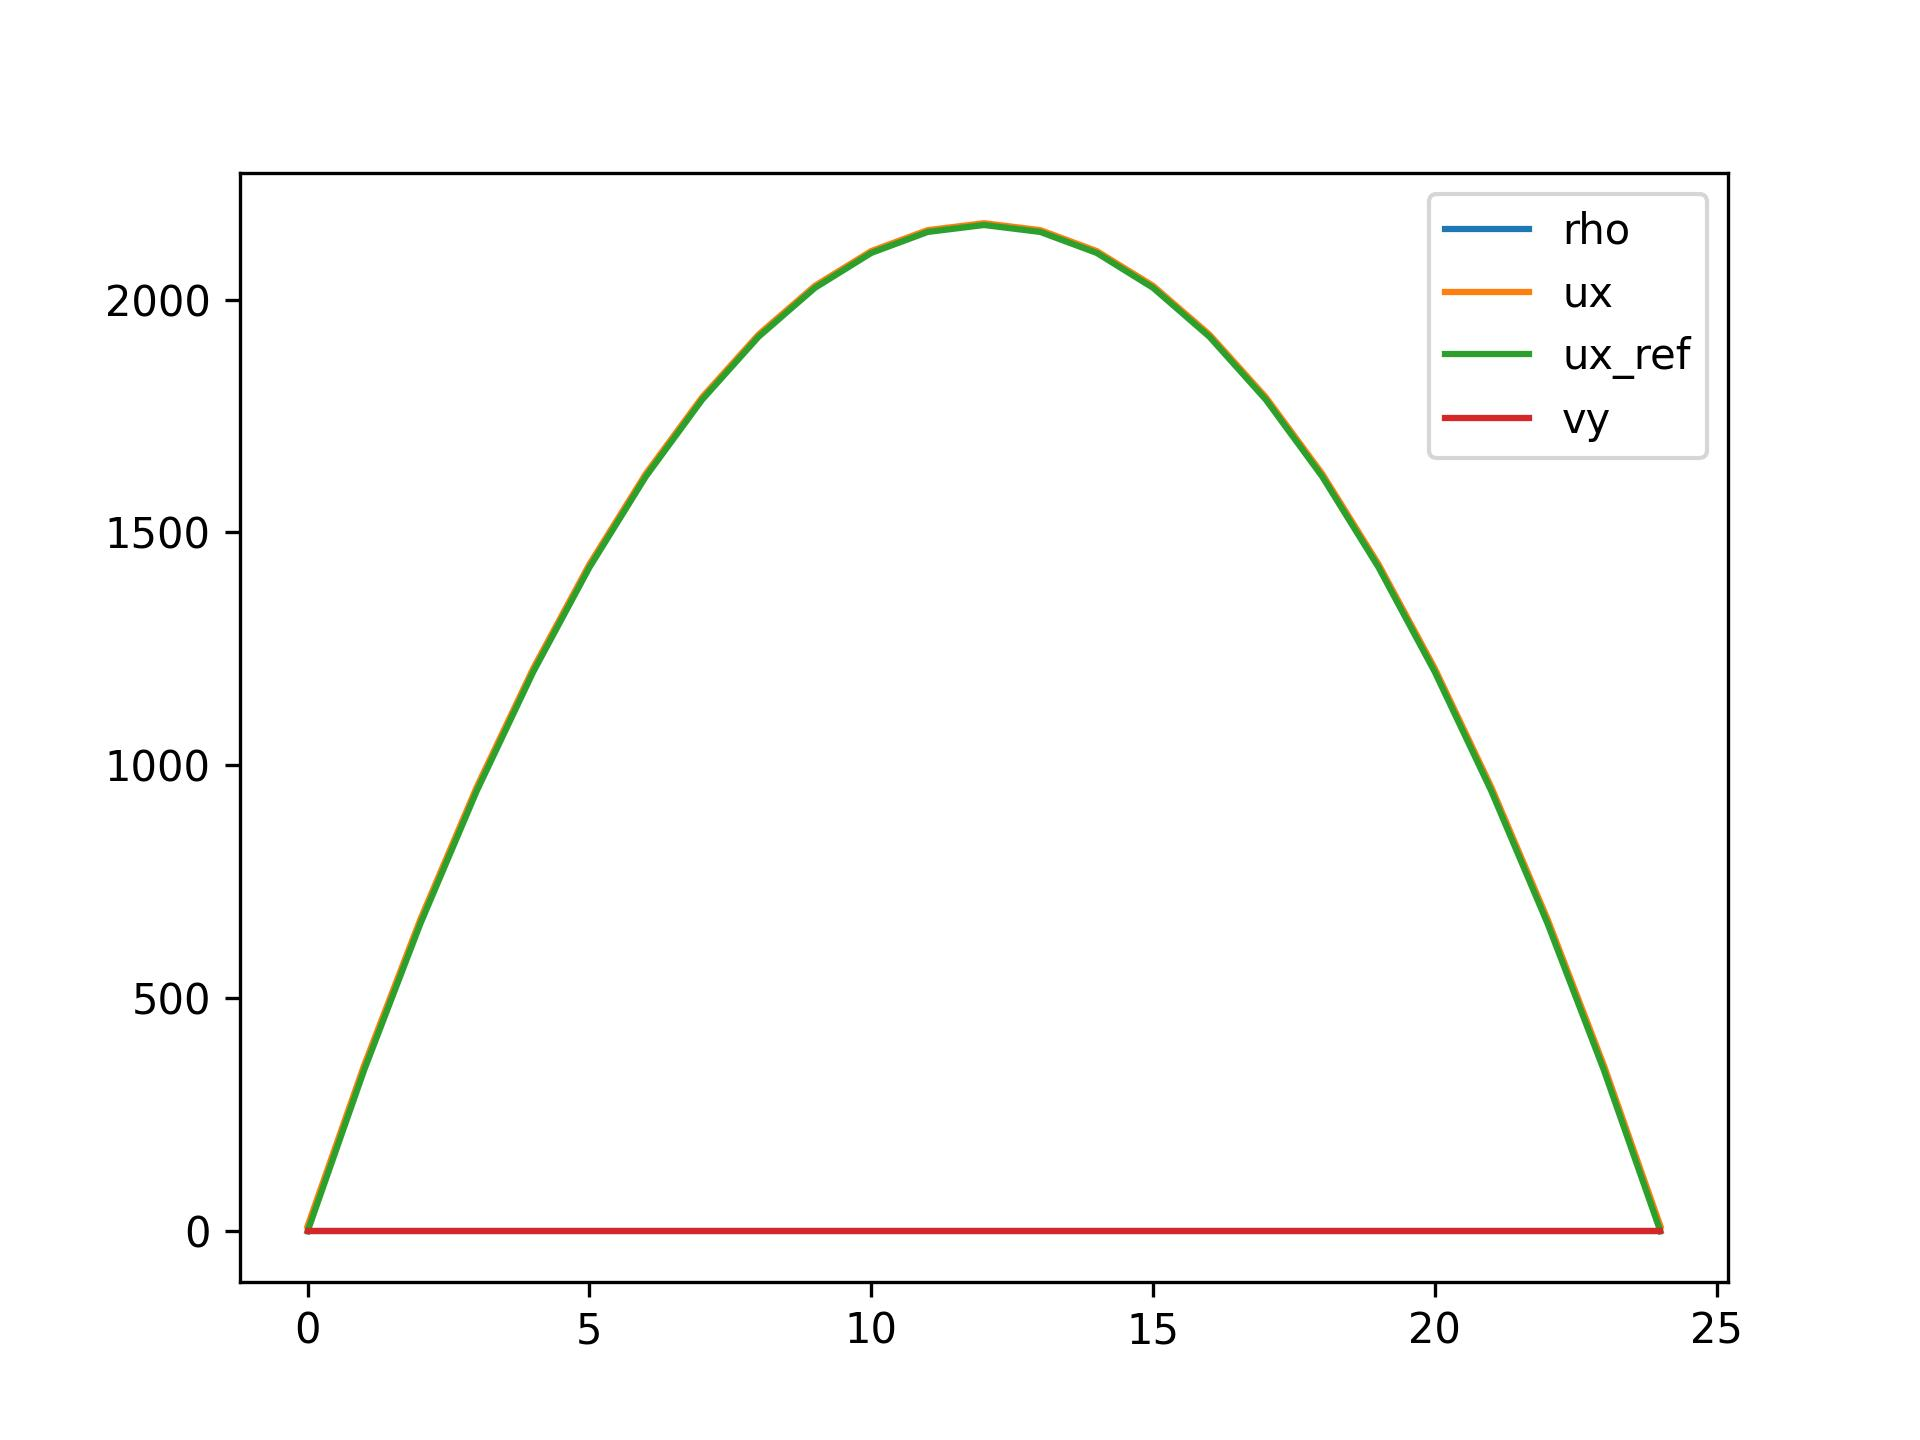
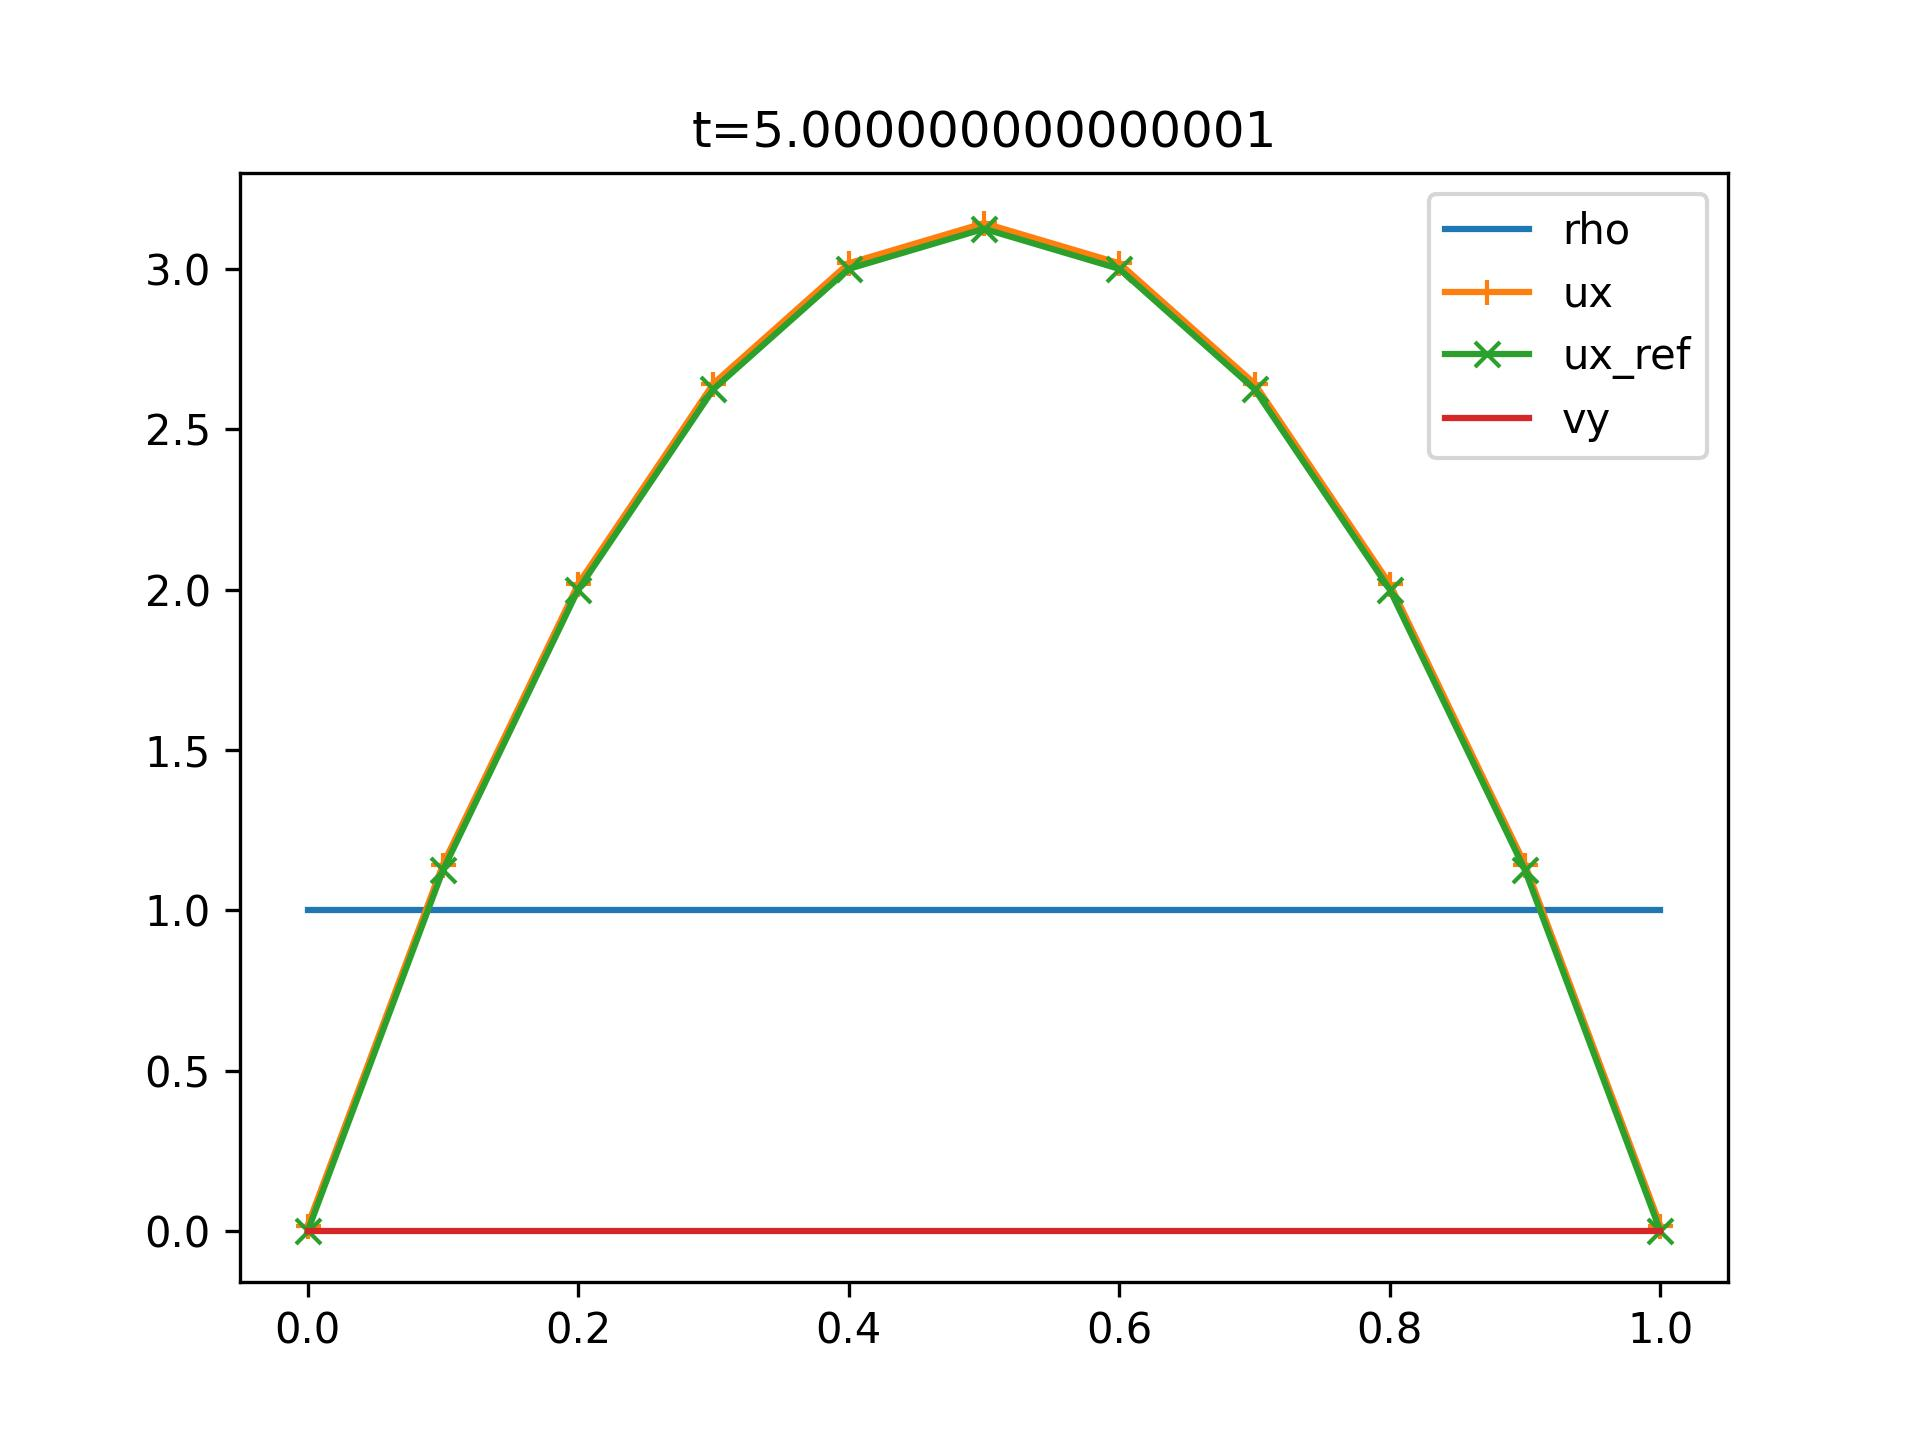
Finish LBM

diff --git a/NumericalMethod/LBM_Poiseuille.py b/NumericalMethod/LBM_Poiseuille.py
@@ -1,5 +1,6 @@
 import numpy as np
 import matplotlib.pyplot as plt
+import matplotlib.animation as animation
 # ***********************************************************************#
 # Lattice Boltzmann Method (LBM)                                         #
 # original code by Li Zhe as a tutorial template and finished by LCS     #
@@ -17,32 +18,53 @@ import matplotlib.pyplot as plt
 # =======================================================================#
 #                               Constants                                #
 # =======================================================================#
+
+## Physical Parameters
+deltax_phy = 0.1
+rho_phy = 1
+g_phy = 10
+nu_phy = 4e-1
+Ly_phy = 1
+nbSteps = 1200
+BC = 1 # 0 = Zou-He, 1= Bounce back
+
+## Rescaling parameters
+deltat_phy = deltax_phy**2/nu_phy/6
 deltax = 1
 deltat = 1
-cs_lat = 1.0/(3**0.5)*deltax/deltat
-cs2 = cs_lat**2
+Cx = deltax_phy/deltax
+Ct = deltat_phy/deltat
+Crho = 1
+Cu = Cx/Ct
+Cp = Crho*Cu**2
+Cg = Cx/(Ct**2)
+Cnu = Cx**2/Ct
+
+cs = 1.0/(3**0.5)*deltax/deltat
+cs2 = cs**2
 cs4 = cs2**2
-inv1cs2 = 1.0/cs2
-inv2cs2 = 1.0/(2.0*cs2)
-inv1cs4 = 1.0/cs4
-inv2cs4 = 1.0/(2.0*cs4)
+g = g_phy/Cg
+nu = nu_phy/Cnu
+tau = (nu/cs2+1/2)
+
 ex = [0.0, 1.0, 0.0, -1.0, 0.0, 1.0, -1.0, -1.0, 1.0]
 ey = [0.0, 0.0, 1.0, 0.0, -1.0, 1.0, 1.0, -1.0, -1.0]
 w = [4.0/9.0, 1.0/9.0, 1.0/9.0, 1.0/9.0, 1.0/9.0, 1.0/36.0, 1.0/36.0, 1.0/36.0, 1.0/36.0]
 nbDist = 9
-g = 5
 
 # =======================================================================#
 #                       Computational parameters                         #
 # =======================================================================#
-# to be modified ...
 Nx = 3
-Ny = 25
+Ny = int(Ly_phy/Cx)+1
+Ly_phy = (Ny-1)*Cx*deltax
+print('Ly=',Ly_phy)
 
 
 # =======================================================================#
 #                           Initialization                               #
 # =======================================================================#
+y_phy = np.linspace(0,Ly_phy,Ny)
 fdist = np.zeros((nbDist, Nx, Ny))
 fequi = np.zeros((nbDist, Nx, Ny))
 Force = np.zeros((nbDist, Nx, Ny))
@@ -51,7 +73,7 @@ rho   = np.zeros((Nx, Ny))
 vx    = np.zeros((Nx, Ny))
 vy    = np.zeros((Nx, Ny))
 
-rho = np.ones((Nx,Ny))
+rho = np.ones((Nx,Ny))*rho_phy/Crho
 for kk in range(nbDist):
     fequi[kk,:,:] = rho*w[kk]*(1+(ex[kk]*vx+ey[kk]*vy)/cs2+(ex[kk]*vx+ey[kk]*vy)**2/2/cs4-(vx**2+vy**2)/2/cs2)
 
@@ -61,40 +83,55 @@ fdist=fequi
 # =======================================================================#
 #                             Iterations                                 #
 # =======================================================================#
-nbSteps = 2000
-tau = 1
-nu = cs2*(tau-1/2)
-print('nu=',nu)
 for iStep in range(0,nbSteps):
     # ---------------------------------
     # (1) Collision
     fcoll = fdist - deltat/tau*(fdist-fequi) + deltat*(1-deltat/2/tau)*Force
-    
-   # ---------------------------------
-   # (2) Streaming
+
+    # ---------------------------------
+    # (2) Streaming
     for j in range(0,Ny):
         for i in range(0,Nx):
-           for kk in range(nbDist):
+            for kk in range(nbDist):
                 if(((j+ey[kk]) < Ny) & ((j+ey[kk]) >= 0)):
                     fdist[kk,int(np.mod(i+ex[kk],Nx)),int(j+ey[kk])] = fcoll[kk,i,j]
 
-    
-   # ---------------------------------
-   # (3) Boundary condition with bounce back
-   # (3.3) Bottom
-    j = 0
-    fdist[8,:,j] = fcoll[6,:,j]
-    fdist[4,:,j] = fcoll[2,:,j]
-    fdist[7,:,j] = fcoll[5,:,j]
 
-   # (3.4) Top
-    j = Ny-1
-    fdist[6,:,j] = fcoll[8,:,j]
-    fdist[2,:,j] = fcoll[4,:,j]
-    fdist[5,:,j] = fcoll[7,:,j]
+    # ---------------------------------
+    if(BC==0):
+        # (3) No slip boundary condition with bounce back
+        # (3.3) Bottom
+        j = 0
+        fdist[8,:,j] = fcoll[6,:,j]
+        fdist[4,:,j] = fcoll[2,:,j]
+        fdist[7,:,j] = fcoll[5,:,j]
+
+        # (3.4) Top
+        j = Ny-1
+        fdist[6,:,j] = fcoll[8,:,j]
+        fdist[2,:,j] = fcoll[4,:,j]
+        fdist[5,:,j] = fcoll[7,:,j]
     
-   # ---------------------------------
-   # (4) Macroscopic variables
+    elif(BC==1):
+        # (3bis) No slip boundary condition with Zou-he
+        # (3bis.3) Bottom
+        j = 0
+        fdist[4,:,j] = fcoll[2,:,j]
+        fdist[7,:,j] = fcoll[5,:,j] + 0.5*(fcoll[1,:,j]-fcoll[3,:,j])
+        fdist[8,:,j] = fcoll[6,:,j] - 0.5*(fcoll[1,:,j]-fcoll[3,:,j])
+
+        # (3bis.4) Top
+        j = Ny-1
+        fdist[2,:,j] = fcoll[4,:,j]
+        fdist[5,:,j] = fcoll[7,:,j] - 0.5*(fcoll[1,:,j]-fcoll[3,:,j])
+        fdist[6,:,j] = fcoll[8,:,j] + 0.5*(fcoll[1,:,j]-fcoll[3,:,j])
+        
+    else:
+        print("error")
+
+
+    # ---------------------------------
+    # (4) Macroscopic variables
     rho = np.zeros((Nx, Ny))
     vx = np.zeros((Nx, Ny))
     vy = np.zeros((Nx, Ny))
@@ -113,36 +150,13 @@ for iStep in range(0,nbSteps):
         Force[kk,:,:] = rho*w[kk]*((ex[kk]-vx)*g/cs2 + (ex[kk]*vx+ey[kk]*vy)*ex[kk]*g/cs4)
 
 
-#xx,yy = np.meshgrid(np.linspace(0,Nx,Nx), np.linspace(0,Ny,Ny))
-        
-# Visualisation
+# print('Cu=',Cu)
 fig, ax = plt.subplots()
-cs = ax.contourf(rho)
-fig.colorbar(cs)
-fig.savefig('./NumericalMethod/LBM_Poiseuille_rho.jpg',dpi=300)
-plt.close()
-
-fig, ax = plt.subplots()
-cs =ax.contourf(vx)
-fig.colorbar(cs)
-fig.savefig('./NumericalMethod/LBM_Poiseuille_vx.jpg',dpi=300)
-plt.close()
-
-
-
-fig, ax = plt.subplots()
-cs =ax.contourf(vy)
-fig.colorbar(cs)
-fig.savefig('./NumericalMethod/LBM_Poiseuille_vy.jpg',dpi=300)
-
-
-H=(Ny-1)*deltax
-y = np.linspace(0,H,Ny)
-fig, ax = plt.subplots()
-ax.plot(rho[0,:],label='rho')
-ax.plot(vx[0,:],label='ux')
-ax.plot(g*y*(H-y)/(2*nu),label='ux_ref')
-ax.plot(vy[0,:],label='vy')
+ax.plot(y_phy,rho[0,:]*Crho,label='rho')
+ax.plot(y_phy,vx[0,:]*Cu,label='ux',marker='+')
+ax.plot(y_phy,g_phy*y_phy*(Ly_phy-y_phy)/(2*nu_phy),label='ux_ref',marker='x')
+ax.plot(y_phy,vy[0,:],label='vy')
+ax.set_title('t='+str(deltat_phy*nbSteps))
 ax.legend()
 fig.savefig('./NumericalMethod/LBM_Poiseuille_vx_profile.jpg',dpi=300)
 plt.close()
